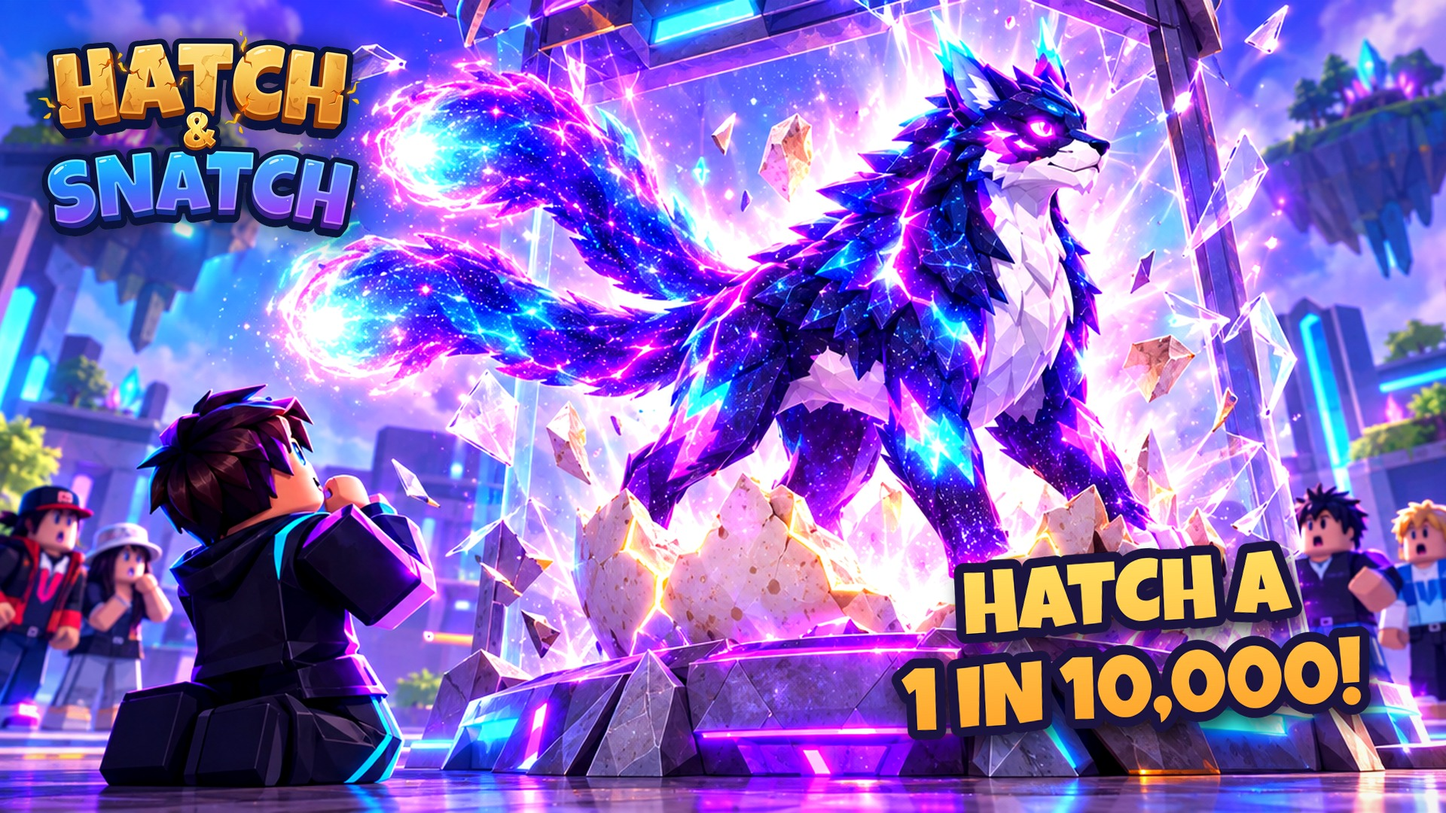
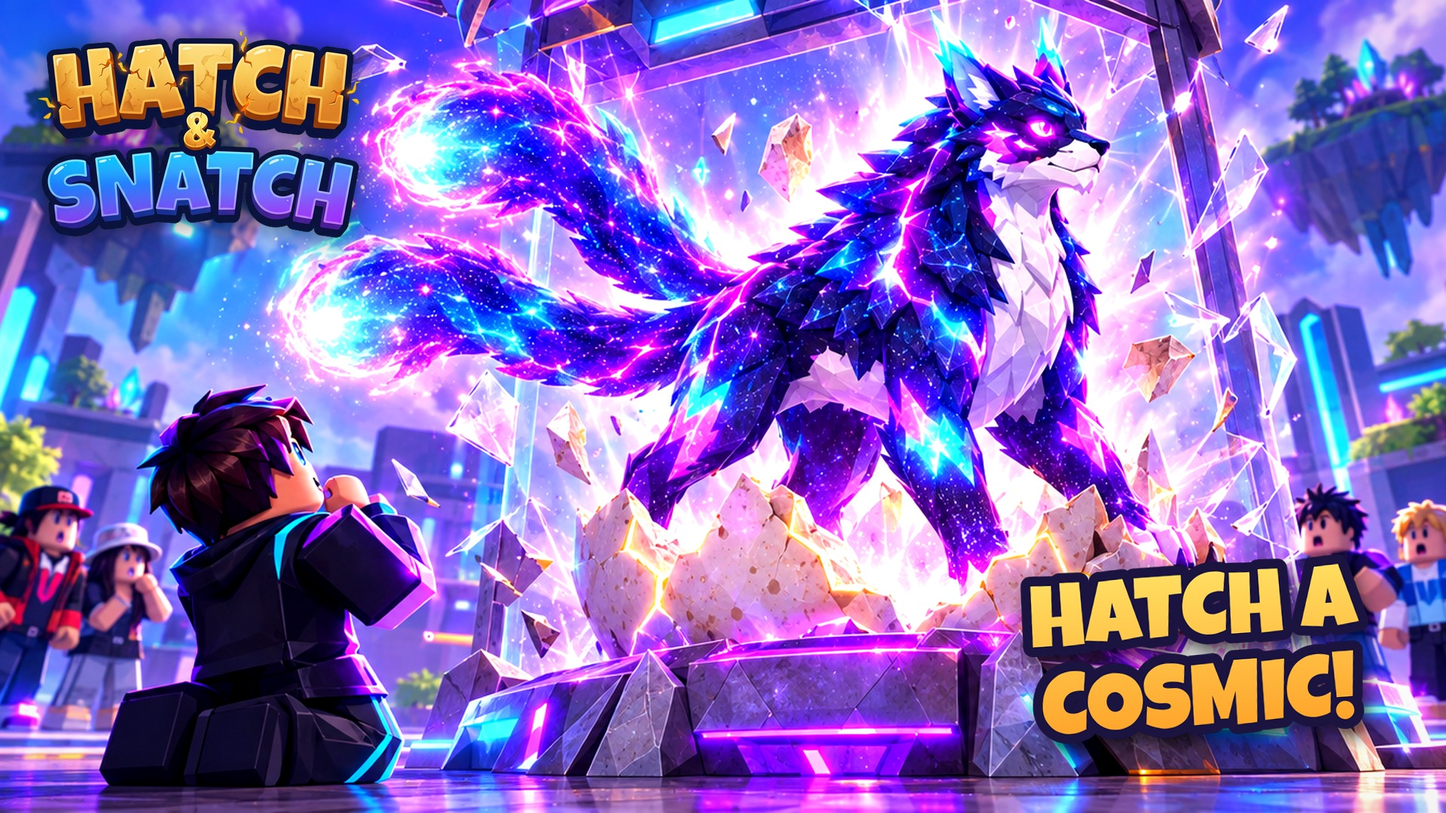
Faster growth in a creature's home biome; Secrets from every egg; Cosmic 1/2,500
Growth: a walked creature grows 4x inside its own biome's zone (2x
elsewhere), so taking creatures into the biomes speeds them up.

Ultra-rares (owner: "50000 still feels crazy even 10k feels crazy"):
a 3 h/day player buys ~10,800 eggs a month but only ~260 Mossvale and
~470 Moonfall, so the Mossvale-only Secret and the Cosmics almost never
came. The Secret now rolls from every biome egg at 1 in 20,000 (Nullcat
1 in 20,000 in Junk eggs) and earns like a creature of the egg's biome
(CreatureRecord.eggBiome, kept through steals). Each Cosmic is 1 in
2,500. The store description and thumbnails 2 and 7 follow the new odds.
The sim keeps a 3 h/day player at base 5 on day 21, Moonfall day 22.

Claude-Session: https://claude.ai/code/session_01YRrRntKAxHDFEBkyBW9V3K

Changed region(s): [[0.5938, 0.6722, 0.9688, 0.9472]]

diff --git a/tools/marketing/compose.py b/tools/marketing/compose.py
@@ -164,7 +164,7 @@ def main():
     place(c, logo_at(430, logo), 10, 0)
     place(
         c,
-        text_layer("HATCH A\n1 IN 10,000!", "LuckiestGuy-Regular.ttf", 118, angle=4),
+        text_layer("HATCH A\nCOSMIC!", "LuckiestGuy-Regular.ttf", 118, angle=4),
         W - 50,
         H - 40,
         "rb",
@@ -252,7 +252,7 @@ def shots():
     # 7. The case-opening reveal landing on the Secret
     c = shot("shot_7_reveal", 60)
     place(c, logo_at(430, logo), 10, 0)
-    place(c, text_layer("1 IN 50,000\nSECRET!", big, 112, angle=3), W - 50, 30, "rt")
+    place(c, text_layer("1 IN 20,000\nSECRET!", big, 112, angle=3), W - 50, 30, "rt")
     place(c, text_layer("WATCH THE REEL SPIN", sub, 58, white, sky), W // 2, H - 40, "mb")
     c.convert("RGB").save(OUT / "thumb_7_reveal.jpg", quality=92)
 

diff --git a/docs/GDD.md b/docs/GDD.md
@@ -85,7 +85,7 @@ buy egg from the belt → carry it home → place it in an incubator (optional L
 ### 4.2 Movement
 
 - **On a pedestal, creatures sit:** the body tilts nose-up about the front feet, the back legs fold down so the rear rests low, and they breathe, look around and swish their tail. They don't hop in place. Feet always stay on the ground: the pose is solved per model (`src/client/CreatureGrounding.luau`), and the lowest foot is clamped to the ground every frame, including mid-run landings.
-- **Walks:** you can take one creature for a walk (R, or Walk in the Creatures menu). It follows you with the bounding run while you move and sits beside you when you stop. A walked creature can't be stolen and grows 2× faster; it still earns from its pedestal. (Owner, 2026-10-03: AFK-walking your best creature is fine; it shows active players, and the rest of the base can still be raided.)
+- **Walks:** you can take one creature for a walk (R, or Walk in the Creatures menu). It follows you with the bounding run while you move and sits beside you when you stop. A walked creature can't be stolen and grows 2× faster, or **4× inside its own biome's zone** (owner, 2026-10-03: "a way to speed up the growth rate ... walking or taking them into biomes"; Junk creatures have no zone); it still earns from its pedestal. (Owner, 2026-10-03: AFK-walking your best creature is fine; it shows active players, and the rest of the base can still be raided.)
 - **The run itself is a slow bound with a hop:** front paws reach together, back legs push off together, there's a short airborne arc, and a squash on landing.
 
 - **By stage:** babies bounce too much and occasionally face-plant; adults land with heavy, powerful bounds, a thud, and a puff of their element (dust, embers, frost, sparks).
@@ -253,7 +253,7 @@ All of this is checked on the server: grab range, carry state, drop-off at the t
 - **Egg prices:** $150 × the biome's price multiplier (×16 per biome): Mossvale 150, Coral 2.4K, Magma 38.4K, Frost 614K, Storm 9.8M, Moonfall 157M (Junk 38.4K). New players start with $300 (two eggs).
 - **Biome earnings multiplier:** creatures earn base cash/sec × their biome's earnings multiplier (Mossvale 1, Coral 4, Magma 16, Frost 60, Storm 220, Moonfall 300, Junk 1). It grows much slower than egg prices, so each biome is a bigger investment than the last.
 - **Resulting payback** for a Common baby: 2 min in Mossvale, 8 min in Coral, 32 min in Magma, 2.3 h in Frost, 10 h in Storm and 15 h in Moonfall (whose eggs start at Rare). Adults earn ×6, and rare rolls pay back much faster.
-- **Drop rates** (loosened 2026-10-03, owner: "pretty ruthless ... not too much for the extreme rares"): a biome egg is about 47–55% Common, 29–33% Uncommon, 17% Rare, 7–8% Epic and 3–4% Legendary (was 60/25/11/3/1); Mythic about 1 in 800, Celestial 1 in 2,500. Cosmic (1 in 10,000), Secret (1 in 50,000) and Iridescent (1 in 100,000) stay put, since the store page quotes them. To keep the pacing, Epic and Legendary earn 18 and 60 (were 25 and 80) and base level 5 costs 800B (was 500B).
+- **Drop rates** (loosened 2026-10-03, owner: "pretty ruthless ... not too much for the extreme rares"): a biome egg is about 47–55% Common, 29–33% Uncommon, 17% Rare, 7–8% Epic and 3–4% Legendary (was 60/25/11/3/1); Mythic about 1 in 800, Celestial 1 in 2,500, each Cosmic 1 in 2,500 and the Secret 1 in 20,000 from **every** biome egg (§7.1). Iridescent stays 1 in 100,000. To keep the pacing, Epic and Legendary earn 18 and 60 (were 25 and 80) and base level 5 costs 800B (was 500B).
 - **Rarity earnings are compressed** (Legendary is 60× a Common, not 250×). Players keep only their best creatures on pedestals, so a steep rarity curve made income explode after a few hundred hatches.
 - **Rebirth** is the endgame sink (see §7.2): the first costs 1T, then 2.5T, 6T, 15T and 40T, and each one after that costs ×2.5.
 - **Offline earnings** are capped at 8 hours; the cap can be raised by a game pass.
@@ -273,10 +273,10 @@ All of this is checked on the server: grab range, carry state, drop-off at the t
 | Top Floor | day 14 | day 8 | day 4 | day 3 |
 | Vault 4 | day 26 | day 13 | day 7 | day 5 |
 | Storm Peaks | day 27 | day 10 | day 4 | day 3 |
-| Base level 5 (max) | — | day 22 | day 11 | day 9 |
-| Moonfall | — | day 22 | day 11 | day 9 |
-| Everything bought (6 Cosmic incubators) | — | day 22 | day 17 | day 13 |
-| First rebirth | — | — | day 18 | day 14 |
+| Base level 5 (max) | — | day 21 | day 11 | day 8 |
+| Moonfall | — | day 22 | day 11 | day 8 |
+| Everything bought (6 Cosmic incubators) | — | day 21 | day 17 | day 12 |
+| First rebirth | — | — | day 18 | day 12 |
 
 Before the retune, a 3 h/day player had bought everything in about 3 hours of play. Rerun the sim after any economy change. Paid boosts, events and stealing make real players somewhat faster than this baseline.
 
@@ -286,9 +286,10 @@ Before the retune, a 3 h/day player had bought everything in about 3 hours of pl
 |---|---|---|---|
 | Mythic | Any biome egg, any time | about 1 in 800 | Sylvanox (Mossvale), Lurehound (Coral), Pyrodrake (Magma), Glacierion (Frost), Stormgriff (Storm), Lunaris (Moonfall) |
 | Celestial | Magma and Storm eggs, **only during a moon event** | about 1 in 2,500 | Solarion (Magma), Halosaur (Storm) |
-| Cosmic | Moonfall eggs only | about 1 in 10,000 each | Quasarfox, Singularis |
-| Secret | Hidden in ordinary eggs; shows as ??? in the Index | about 1 in 50,000 | Capybaron (Mossvale, the $150 starter egg), Nullcat (Junk Egg) |
+| Cosmic | Moonfall eggs only | about 1 in 2,500 each (1 in 1,250 for either) | Quasarfox, Singularis |
+| Secret | Hidden in **every** biome egg; shows as ??? in the Index | 1 in 20,000 | Capybaron (any biome egg; it earns like a creature of the egg's biome, `CreatureRecord.eggBiome`), Nullcat (Junk Egg, about 1 in 20,000) |
 
+- Odds rework (owner, 2026-10-03: "50000 still feels crazy even 10k feels crazy for a single hyper rare especially if it can be stolen"): a 3 h/day player buys about 10,800 eggs in a month but only ~260 of them Mossvale and ~470 Moonfall, so the old Mossvale-only 1-in-50,000 Secret and the 1-in-10,000 Cosmics almost never came. Now, in the sim's egg counts, a Mythic comes every couple of days, a Cosmic every few weeks after Moonfall opens (about a week for an 8 h/day player) and a Secret in about two months (three weeks at 8 h/day).
 - Moonfall eggs start at Rare, so their Mythic/Cosmic weights are overridden (`Eggs.biomeRarityWeights`) to keep the odds in line with other biomes.
 - Every ultra-rare hatch is announced server-wide in its tier color.
 - **Incubator tease:** since the species is rolled at purchase, Epic+ eggs glow in their rarity color, brighter as they near hatching, and pulse in the last 10%. An ultra-rare incubator is visible across the base, which is both hype and a clip moment.

diff --git a/CLAUDE.md b/CLAUDE.md
@@ -46,7 +46,7 @@ unrelated to the Polymarket worker.
   - **Galaxy** (owner, 2026-10-01): the starfield holds still on screen while the creature moves through it (like galaxy skins elsewhere). Roblox has no custom shaders, so CreatureAnimator slides a tiling Texture on each face (`FinishLooks` `sky`); it's off until `assets/textures/galaxy_sky.png` is uploaded and its id pasted in.
 - **Junk Egg:** rare and event-only, containing comic household-object creatures such as the Toaster Tortoise and Fridge Hedgehog.
 - **Roster:** 30 launch creatures are final. See `docs/ROSTER.md` and `src/shared/Config/Creatures.luau`.
-- **Ultra-rares above Legendary** (owner asked for them): Mythic (1 per biome, about 1/800), Celestial (moon events only), Cosmic (Moonfall only, about 1/10,000) and Secret (about 1/50,000, ??? in the Index). That adds 11 species, all approved 2026-10-01 after a rework (docs/ROSTER.md). See docs/GDD.md §7.1.
+- **Ultra-rares above Legendary** (owner asked for them): Mythic (1 per biome, about 1/800), Celestial (moon events only), Cosmic (Moonfall only, about 1/2,500 each) and Secret (1/20,000 from every biome egg, earning like the egg's biome; ??? in the Index). That adds 11 species, all approved 2026-10-01 after a rework (docs/ROSTER.md). See docs/GDD.md §7.1.
   - The owner's rule from that rework: a design must **match its name** (a "-lion" is a lion, a "-fox" a fox), and its baby, juvenile and adult must read as **one creature growing up**. Body-shape swaps that broke the name (seal, yeti, pangolin, jerboa) were rejected.
 - **Servers:** 6 players, 6 plots (set Max Players = 6 in Game Settings).
 - **Progression:** Hatcher Level (XP) plus base level unlock biome eggs; there are achievements; rebirth is prestige only. See GDD §7.2.
@@ -58,7 +58,7 @@ unrelated to the Polymarket worker.
   - **Hatch times** (owner, 2026-10-03: "shouldn't be long at all"): 10 s Common, 20 s Uncommon, 45 s Rare, 2 min Epic, 4 min Legendary, 8–15 min for the ultra-rares, 1 min Junk (`Config/Rarities.luau` `hatchSeconds`), divided by the incubator tier's speed (up to ×4).
   - There is a physical Luck Wheel at the North Commons (charges the next egg's luck) and a case-opening hatch reveal. See GDD §3.1.
 - **Belt:** eggs roll out of and back into the hatchery tunnel; they never vanish in view.
-- **Creatures:** they sit when idle and only run (hop) while following. Walking a creature makes it follow you, prevents stealing and doubles growth speed; it keeps earning, and AFK walking is fine (owner, 2026-10-03).
+- **Creatures:** they sit when idle and only run (hop) while following. Walking a creature makes it follow you, prevents stealing and doubles growth speed (×4 inside its own biome's zone, owner 2026-10-03); it keeps earning, and AFK walking is fine (owner, 2026-10-03).
 - **Worth** (owner, 2026-10-03: a Lunaris earning ~2M/s "only worth 13M" made no sense): a creature's Sell price is half its egg's price for an average Adult from that egg, scaled by its earnings, and at least 15 s / 2 min / 10 min of its earnings as a Baby / Juvenile / Adult (`Economy.sellValue`). Fresh Babies stay below their egg, so hatch-to-sell never pays.
 - **Bases:** 5 upgrade levels (bigger plot, ground pedestals up to 20, longer lock), 3 security upgrades (alarm, tripwire, auto-lock) and the Castle Designer. See GDD §6.1.
   - **Roomy ground floor** (owner, 2026-10-02: "far too cramped together on the bottom floor ... spots on the left and right of the center"): the plot grows to 88×80, and the 20 ground spots stand in two wings (2 columns × 5 rows a side, 13 studs apart) either side of an open hall with the kit's centerpiece at its end (`WorldService` `GROUND_COLUMNS`, `GROUND_ROWS`).
@@ -86,7 +86,7 @@ unrelated to the Polymarket worker.
 - **Launch (owner, 2026-09-30):** v1 ships with every biome. Players unlock them through Hatcher Level and base level. Later updates add creatures, maps and features, not gated biomes.
 - **Economy pacing (owner, 2026-09-30):** players must not max their base on day 1. The economy was retuned so a 3 h/day player reaches Frost around day 3–4, Storm around day 10 and base 5 plus Moonfall around days 19–22; rebirth is the endgame sink after that. See GDD §7 "Pacing".
   - Rerun `bash tools/sim/run_economy_sim.sh` after any change to prices, earnings, costs or XP.
-  - **Drop rates** (owner, 2026-10-03: "pretty ruthless ... not too much for the extreme rares"): species weights 46/28/16/7/3 (Common → Legendary), Mythic ~1/800, finishes Gold 1/15 → Prismatic 1/16,000, the common mutations 1/8,000 and 1/12,000. Cosmic 1/10,000, Secret 1/50,000 and Iridescent 1/100,000 are unchanged because the store page and art quote them. The pacing was held by Epic/Legendary earning 18/60 (were 25/80) and base 5 costing 800B (was 500B).
+  - **Drop rates** (owner, 2026-10-03: "pretty ruthless ... not too much for the extreme rares"): species weights 46/28/16/7/3 (Common → Legendary), Mythic ~1/800, finishes Gold 1/15 → Prismatic 1/16,000, the common mutations 1/8,000 and 1/12,000. Then ("50000 still feels crazy even 10k"): each Cosmic 1/2,500 and the Secret 1/20,000 from every biome egg (a 3 h/day player buys only ~260 Mossvale eggs a month); store description and thumbnails 2 and 7 updated. Iridescent stays 1/100,000. The pacing was held by Epic/Legendary earning 18/60 (were 25/80) and base 5 costing 800B (was 500B).
 - **Daily rewards** (built 2026-09-30): a 7-day login streak and 3 daily quests (GDD §7.4, `Config/Daily.luau`).
 - **Store page** (built 2026-09-30): the files to upload are in `marketing/`, and the copy is in `docs/STORE_PAGE.md`. Rebuild with `python3 tools/marketing/compose.py`. Store art must be attention-grabbing (owner).
 - **Day/night** (owner, 2026-10-02): 12 min day, 4 min night, from the server's clock on each client (`Shared/DayNight.luau`, `DayNightController`); the server's lighting is the daytime look.

diff --git a/docs/STORE_PAGE.md b/docs/STORE_PAGE.md
@@ -12,12 +12,12 @@ The files to upload are in `marketing/`. Rebuild them with `python3 tools/market
 ## Thumbnails (1920×1080, in this order)
 
 1. `thumb_1_steal.jpg`: logo plus "STEAL THEIR RAREST!", a player sprinting off with a giant Tidalotl while the owner chases. This is the lead image and says what the game is.
-2. `thumb_2_hatch.jpg`: "HATCH A 1 IN 10,000!", a Cosmic creature bursting from an incubator.
+2. `thumb_2_hatch.jpg`: "HATCH A COSMIC!", a Cosmic creature bursting from an incubator (was "1 IN 10,000" before the 2026-10-03 odds change).
 3. `thumb_3_collect.jpg`: "COLLECT 41 CREATURES / 7 SHINY FINISHES", the finish lineup.
 4. `thumb_4_moon.jpg`: "MOON EVENTS!", the cracked Moon Egg turning red.
 5. `thumb_5_fortress.jpg`: "BUILD YOUR FORTRESS! / 3 FLOORS · 4 VAULTS", the three-story base from above.
 6. `thumb_6_vault.jpg`: "LOCK THE VAULT!", a Sylvanox behind a glowing vault door.
-7. `thumb_7_reveal.jpg`: "1 IN 50,000 SECRET! / WATCH THE REEL SPIN", the hatch reveal landing on Capybaron.
+7. `thumb_7_reveal.jpg`: "1 IN 20,000 SECRET! / WATCH THE REEL SPIN", the hatch reveal landing on Capybaron.
 8. `thumb_8_lineup.jpg`: "SHOW OFF YOUR RAREST!", rarity halos and stardust at night.
 9. `thumb_9_biome.jpg`: "EXPLORE 6 BIOMES! / ERUPTIONS · METEORS · LIGHTNING", the Magma Rift mid-eruption.
 
@@ -34,7 +34,7 @@ Tips:
 976 characters, under Roblox's 1,000 limit. Rewritten 2026-10-01 (owner: the first version read as AI): concrete moments from a session instead of a feature list.
 
 ```
-Every egg on the conveyor could hatch a 1 in 50,000 Secret. Raise it, show it off, and keep it safe, because everyone in your server wants it. 🥚
+Every egg on the conveyor could hatch a 1 in 20,000 Secret. Raise it, show it off, and keep it safe, because everyone in your server wants it. 🥚
 
 🆕 FLOORS & VAULTS: put your rarest on the top floor and lock it in a vault when a thief walks in.
 
